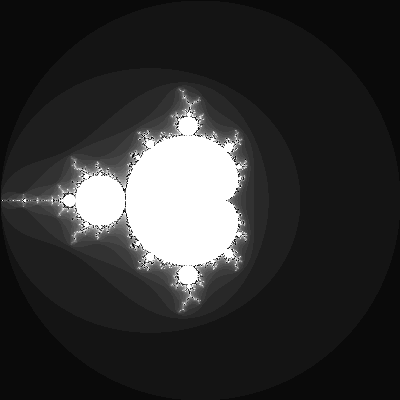
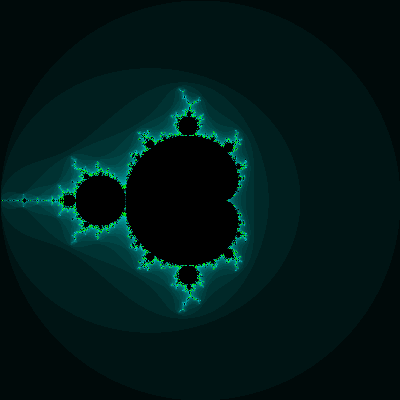
todo cli

diff --git a/Assignment4/test.py b/Assignment4/test.py
@@ -1,8 +1,5 @@
-from numpy import *
-from PIL import Image
-import time
-from numba import cuda
 
+''''
 ##its fucking slower
 ##https://www.ibm.com/developerworks/community/blogs/jfp/entry/How_To_Compute_Mandelbrodt_Set_Quickly?lang=en
 
@@ -43,3 +40,51 @@ endtime= time.time()
 
 print(endtime-starttime)
 
+'''
+
+# True-color Mandelbrot Fractal
+# FB36 - 20130113
+import math
+from PIL import Image
+
+imgx = 800; imgy = 800
+image = Image.new("RGB", (imgx, imgy))
+pixels = image.load()
+xa = -2.0; xb = 1.0
+ya = -1.5; yb = 1.5
+maxIt = 256 # of iterations
+
+# find max values for |x|, |y|, |z|
+maxAbsX = 0.0; maxAbsY = 0.0; maxAbsZ = 0.0
+for ky in range(imgy):
+    b = ky * (yb - ya) / (imgy - 1)  + ya
+    for kx in range(imgx):
+        a = kx * (xb - xa) / (imgx - 1)  + xa
+        c = complex(a, b); z = c
+        for i in range(maxIt):
+            z = z * z + c
+            if abs(z) > 2.0: break
+        if abs(z.real) > maxAbsX: maxAbsX = abs(z.real)
+        if abs(z.imag) > maxAbsY: maxAbsY = abs(z.imag)
+        if abs(z) > maxAbsZ: maxAbsZ = abs(z)
+
+# paint
+for ky in range(imgy):
+    b = ky * (yb - ya) / (imgy - 1)  + ya
+    for kx in range(imgx):
+        a = kx * (xb - xa) / (imgx - 1)  + xa
+        c = complex(a, b); z = c
+        for i in range(maxIt):
+            z = z * z + c
+            if abs(z) > 2.0: break
+        v0 = int(255 * abs(z.real) / maxAbsX)
+        v1 = int(255 * abs(z.imag) / maxAbsY)
+        v2 = int(255 * abs(z) / maxAbsZ)
+        v3 = int(255 * abs(math.atan2(z.imag, z.real)) / math.pi)
+        v = v3 * 256 ** 3 + v2 * 256 ** 2 + v1 * 256 + v0
+        colorRGB = int(16777215 * v / 256 ** 4)
+        red = int(colorRGB / 65536)
+        grn = int(colorRGB / 256) % 256
+        blu = colorRGB % 256
+        pixels[kx, ky] = (red, grn, blu)
+image.save("MandelbrotFractal.png", "PNG")

diff --git a/Assignment4/mandelbrot_1.py b/Assignment4/mandelbrot_1.py
@@ -3,6 +3,7 @@
 from PIL import Image
 from progressbar import *
 import time
+
 stattime = time.time()
 
 def mandelbrotchecker(x, y):
@@ -10,14 +11,13 @@ def mandelbrotchecker(x, y):
     c = complex(x, y)
     z = complex(0, 0)
 
-    for x in range(1001):
+    for x in range(1000):
         sum = z * z + c
         if (abs(z) >= 2):
             return x * 10 % 255
-        elif (x == 1000):
-            return 255
+        elif (x == 999):
+            return 0
         z = sum
-
 
 def createMandelbrot(startx = -2.0,endx = 2.0,starty = -2.0,endy = 2.0):
 
@@ -43,7 +43,7 @@ def createMandelbrot(startx = -2.0,endx = 2.0,starty = -2.0,endy = 2.0):
     for x in range(len(a)):
         for y in range(len(b)):
             color_value=(mandelbrotchecker(a[x] , a[y]))
-            im.putpixel((x, y), (color_value, color_value, color_value))
+            im.putpixel((x, y), (color_value%10, color_value, color_value%200)) #140 ser bra ut
             pbar.update(x)
     pbar.finish()
 
@@ -51,10 +51,10 @@ def createMandelbrot(startx = -2.0,endx = 2.0,starty = -2.0,endy = 2.0):
 
     endtime = time.time()
 
-    print "\n total time:"
+    print ("\n total time:")
     print(endtime-stattime)
 
-
+createMandelbrot()
 
 
 

diff --git a/Assignment4/mandelbrot_cli.py b/Assignment4/mandelbrot_cli.py
@@ -6,7 +6,7 @@ import imp
 
 import mandelbrot_1
 import mandelbrot_2
-from c_in import mandelbrot_3
+from  c_in_python_cython import mandelbrot_3
 
 
 def callMandelbrot1():
